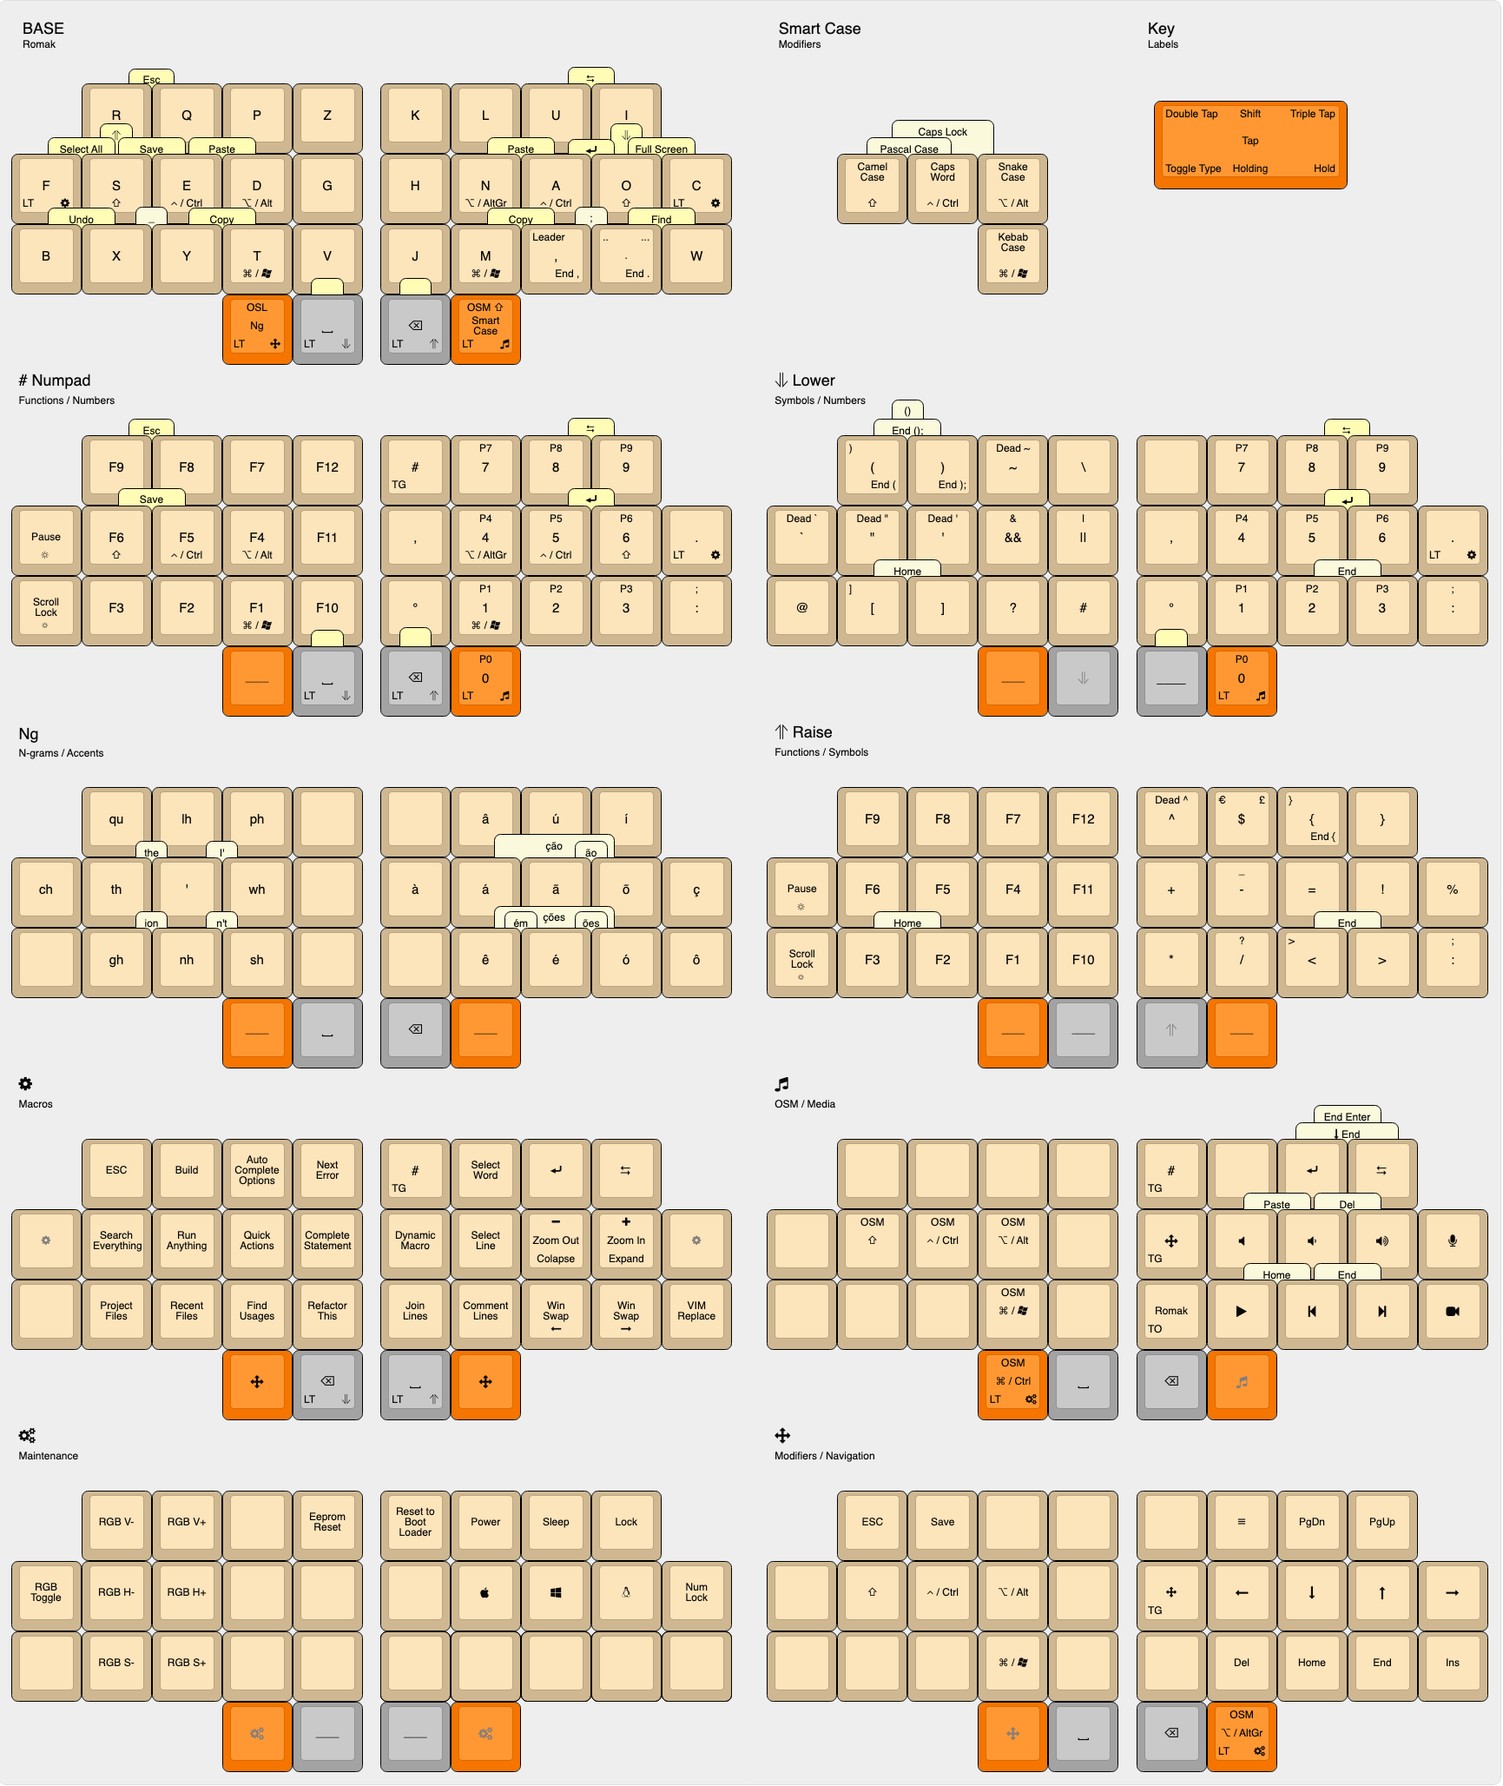
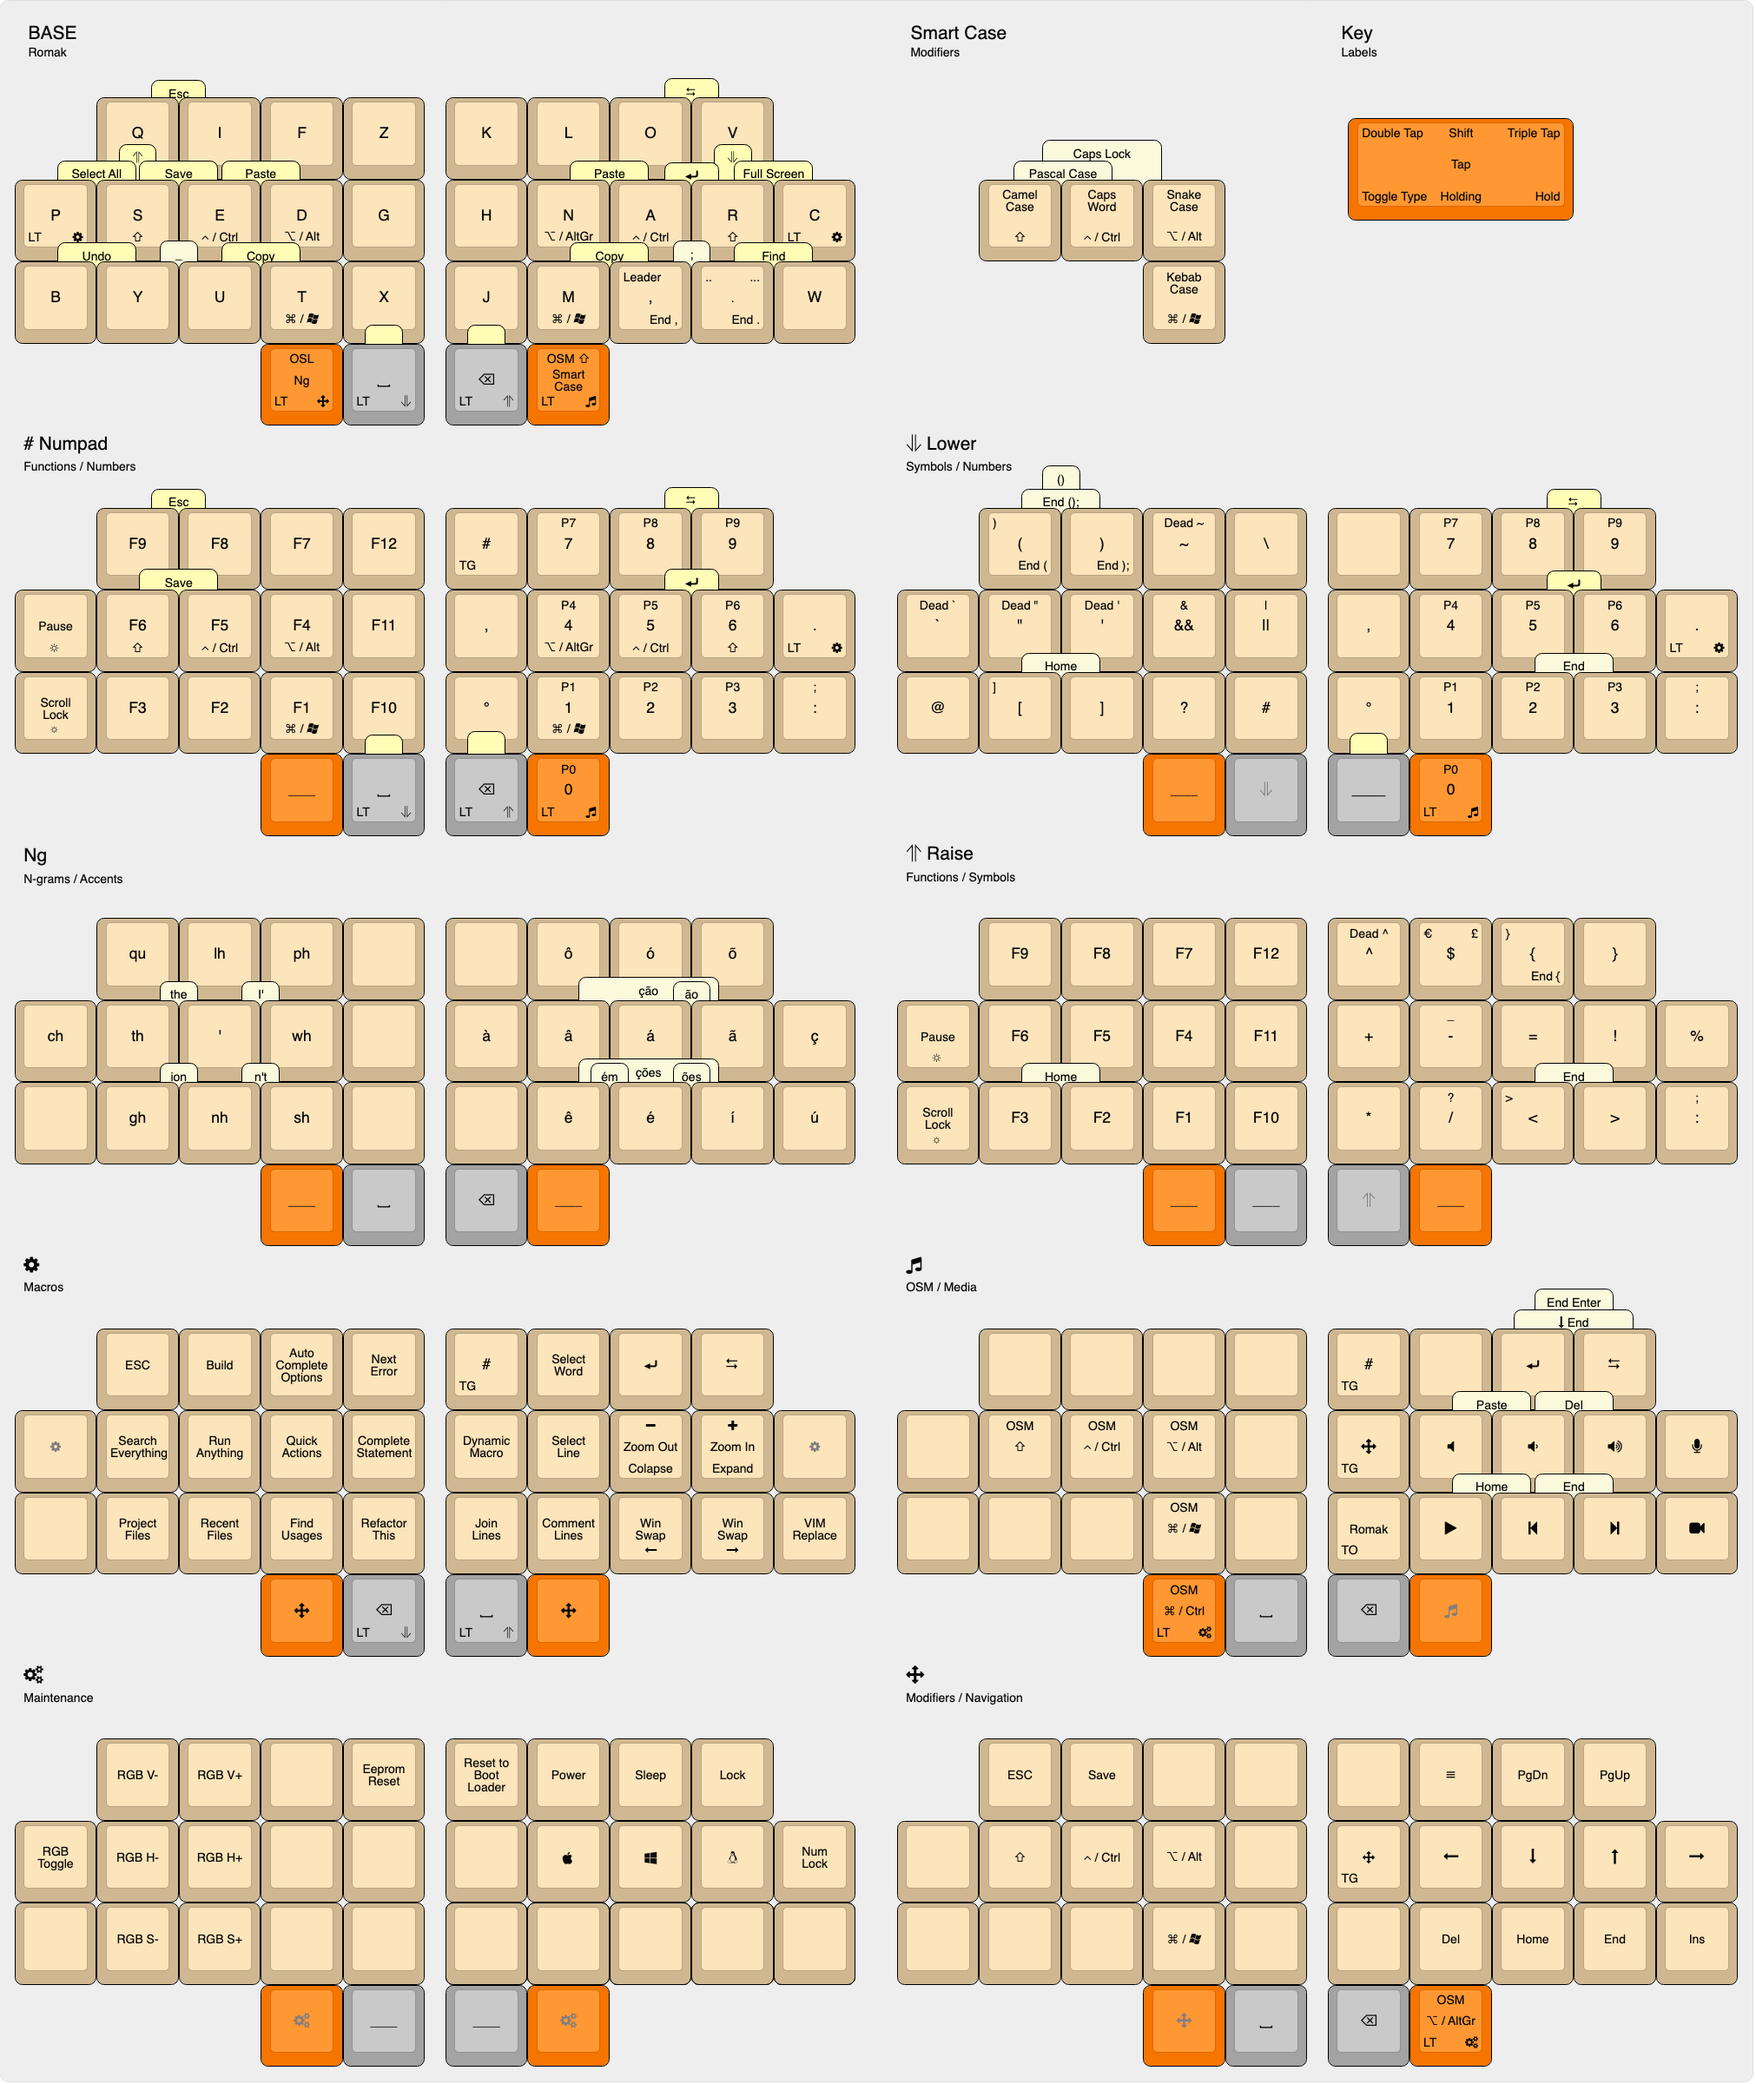
move xyu towards romakv2

diff --git a/src/qmk/users/rafaelromao/features/combos.c b/src/qmk/users/rafaelromao/features/combos.c
@@ -47,12 +47,12 @@ const uint16_t PROGMEM l_rom_esc_combo[] = {LOW_SPC, KC_R, KC_Q, COMBO_END};
 const uint16_t PROGMEM l_rom_sal_combo[] = {LOW_SPC, KCF_MAC, LSFTT_S, COMBO_END};
 const uint16_t PROGMEM l_rom_rai_combo[] = {LOW_SPC, LSFTT_S, COMBO_END};
 const uint16_t PROGMEM l_rom_sav_combo[] = {LOW_SPC, LSFTT_S, LCTLT_E, COMBO_END};
-const uint16_t PROGMEM l_rom_usc_combo[] = {KC_X, KC_Y, COMBO_END};
+const uint16_t PROGMEM l_rom_usc_combo[] = {KC_Y, KC_U, COMBO_END};
 const uint16_t PROGMEM l_rom_pas_combo[] = {LOW_SPC, LCTLT_E, LALTT_D, COMBO_END};
-const uint16_t PROGMEM l_rom_und_combo[] = {LOW_SPC, KC_B, KC_X, COMBO_END};
-const uint16_t PROGMEM l_rom_cop_combo[] = {LOW_SPC, KC_Y, LGUIT_T, COMBO_END};
+const uint16_t PROGMEM l_rom_und_combo[] = {LOW_SPC, KC_B, KC_Y, COMBO_END};
+const uint16_t PROGMEM l_rom_cop_combo[] = {LOW_SPC, KC_U, LGUIT_T, COMBO_END};
 
-const uint16_t PROGMEM r_rom_tab_combo[] = {RAI_BSP, KC_U, KC_I, COMBO_END};
+const uint16_t PROGMEM r_rom_tab_combo[] = {RAI_BSP, KC_X, KC_I, COMBO_END};
 const uint16_t PROGMEM r_rom_pas_combo[] = {RAI_BSP, RALTT_N, RCTLT_A, COMBO_END};
 const uint16_t PROGMEM r_rom_ent_combo[] = {RAI_BSP, RCTLT_A, RSFTT_O, COMBO_END};
 const uint16_t PROGMEM r_rom_low_combo[] = {RAI_BSP, RSFTT_O, COMBO_END};

diff --git a/src/qmk/users/rafaelromao/definitions/keymap_blocks.h b/src/qmk/users/rafaelromao/definitions/keymap_blocks.h
@@ -7,10 +7,10 @@
 
 #define ___________________ROMAK_L1____________________ XXXXXXX , KC_R    , KC_Q    , KC_P    , KC_Z
 #define ___________________ROMAK_L2____________________ KCF_MAC , LSFTT_S , LCTLT_E , LALTT_D , KC_G
-#define ___________________ROMAK_L3____________________ KC_B    , KC_X    , KC_Y    , LGUIT_T , KC_V
+#define ___________________ROMAK_L3____________________ KC_B    , KC_Y    , KC_U    , LGUIT_T , KC_V
 #define ____ROMAK_L4_____                                                             NAV_NG  , LOW_SPC
 
-#define ___________________ROMAK_R1____________________ KC_K    , KC_L    , KC_U    , KC_I    , XXXXXXX
+#define ___________________ROMAK_R1____________________ KC_K    , KC_L    , KC_X    , KC_I    , XXXXXXX
 #define ___________________ROMAK_R2____________________ KC_H    , RALTT_N , RCTLT_A , RSFTT_O , KCC_MAC
 #define ___________________ROMAK_R3____________________ KC_J    , RGUIT_M , TD_COMM , TD_DOTD , KC_W
 #define ____ROMAK_R4_____                               RAI_BSP , MED_SFT
